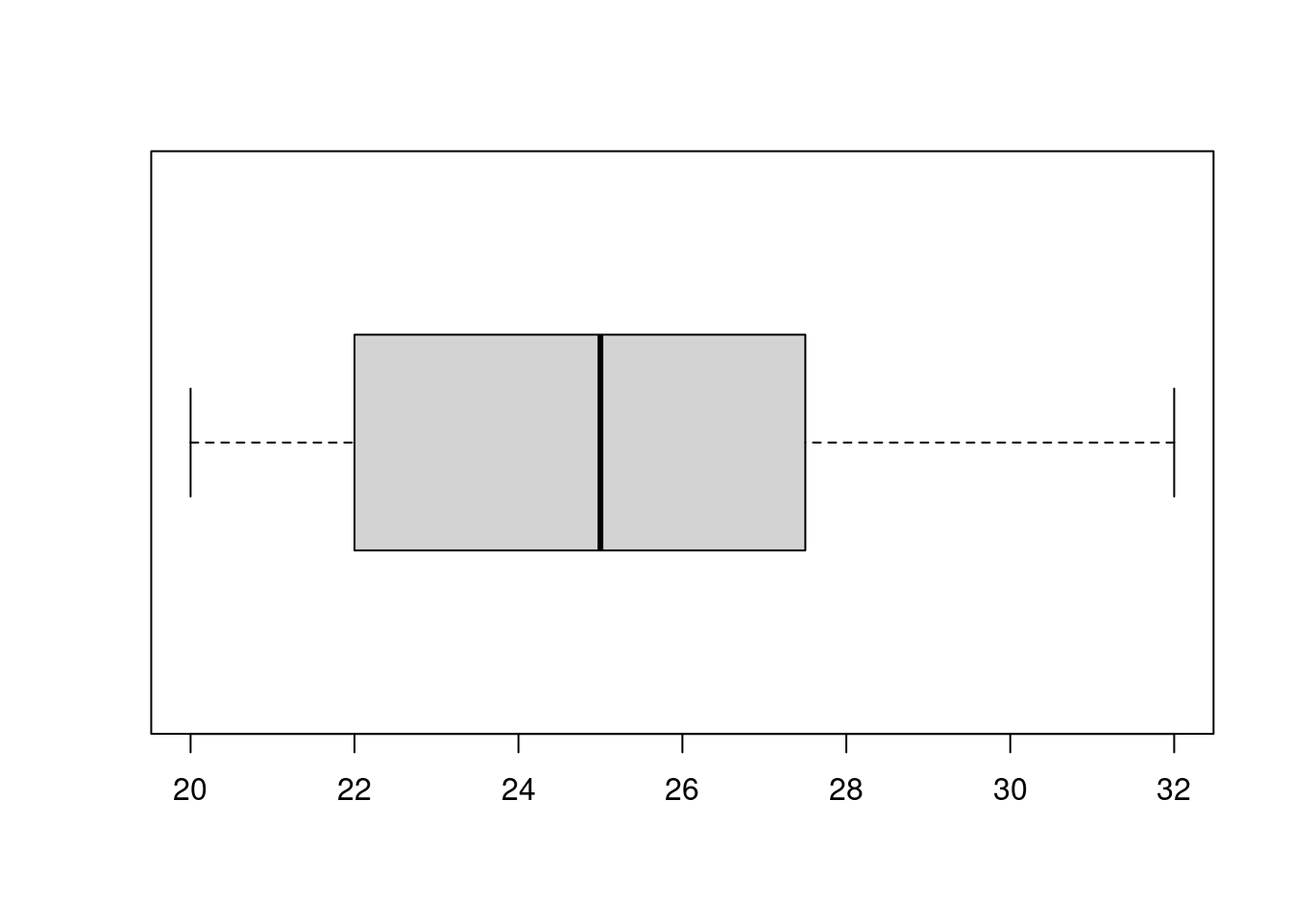
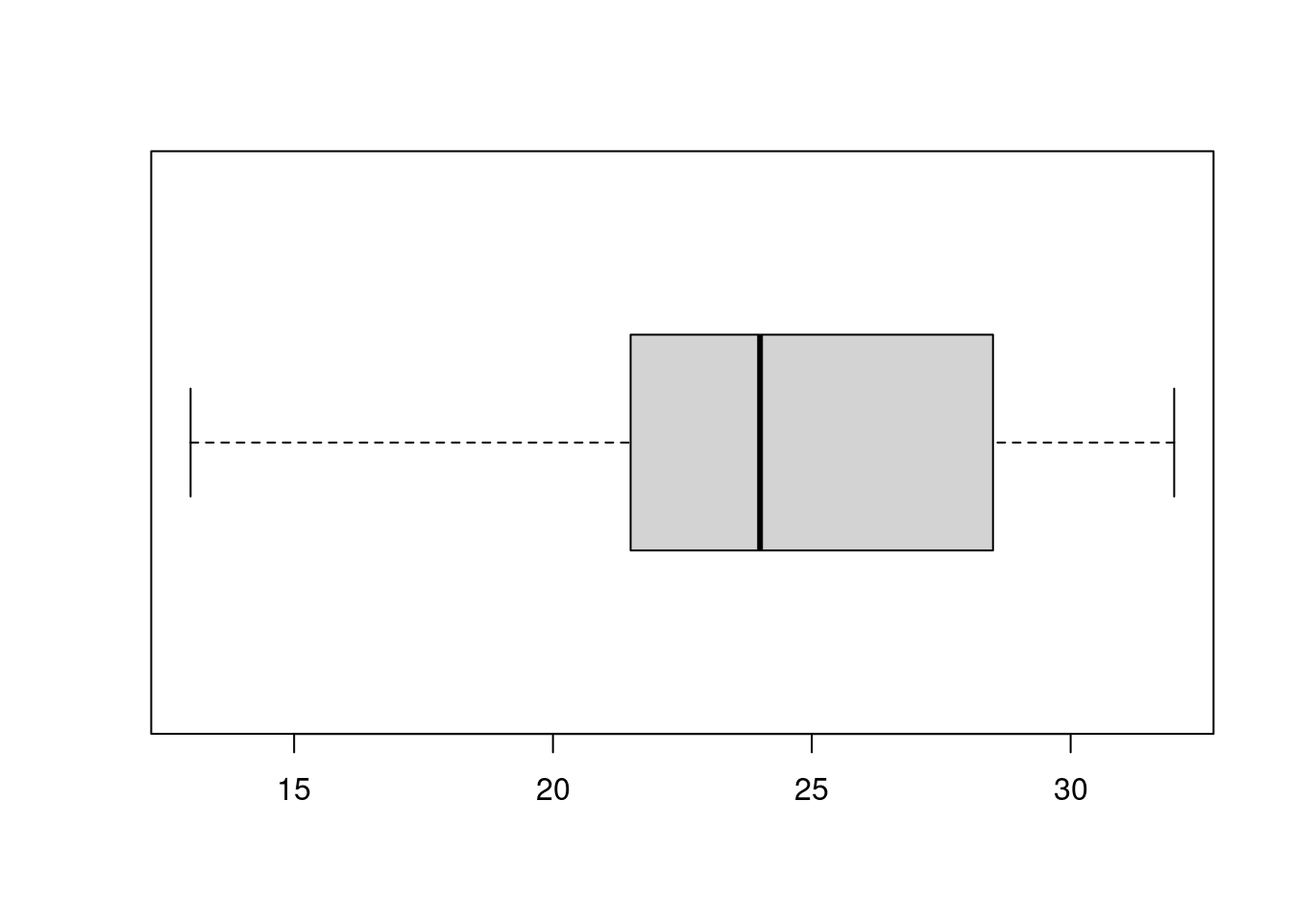
Adding Poisson Distribution

diff --git a/_book/discrete-probability-the-binomial-distribution.html b/_book/discrete-probability-the-binomial-distribution.html
@@ -247,7 +247,12 @@ code span.wa { color: #60a0b0; font-weight: bold; font-style: italic; } /* Warni
 <ul>
 <li class="chapter" data-level="4.1.1" data-path="geometric-and-poisson-distributions.html"><a href="geometric-and-poisson-distributions.html#expected-value-1"><i class="fa fa-check"></i><b>4.1.1</b> Expected Value</a></li>
 <li class="chapter" data-level="4.1.2" data-path="geometric-and-poisson-distributions.html"><a href="geometric-and-poisson-distributions.html#variance"><i class="fa fa-check"></i><b>4.1.2</b> Variance</a></li>
-<li class="chapter" data-level="4.1.3" data-path="geometric-and-poisson-distributions.html"><a href="geometric-and-poisson-distributions.html#poisson-distributions"><i class="fa fa-check"></i><b>4.1.3</b> Poisson Distributions</a></li>
+</ul></li>
+<li class="chapter" data-level="4.2" data-path="geometric-and-poisson-distributions.html"><a href="geometric-and-poisson-distributions.html#poisson-distributions"><i class="fa fa-check"></i><b>4.2</b> Poisson Distributions</a>
+<ul>
+<li class="chapter" data-level="4.2.1" data-path="geometric-and-poisson-distributions.html"><a href="geometric-and-poisson-distributions.html#what-have-we-learned"><i class="fa fa-check"></i><b>4.2.1</b> What have we learned?</a></li>
+<li class="chapter" data-level="4.2.2" data-path="geometric-and-poisson-distributions.html"><a href="geometric-and-poisson-distributions.html#expected-value-2"><i class="fa fa-check"></i><b>4.2.2</b> Expected Value</a></li>
+<li class="chapter" data-level="4.2.3" data-path="geometric-and-poisson-distributions.html"><a href="geometric-and-poisson-distributions.html#variance-of-the-poisson-random-variable"><i class="fa fa-check"></i><b>4.2.3</b> Variance of the Poisson Random Variable</a></li>
 </ul></li>
 </ul></li>
 <li class="appendix"><span><b>Appendix</b></span></li>
@@ -361,18 +366,18 @@ code span.wa { color: #60a0b0; font-weight: bold; font-style: italic; } /* Warni
 <div class="sourceCode" id="cb1"><pre class="sourceCode r"><code class="sourceCode r"><span id="cb1-1"><a href="discrete-probability-the-binomial-distribution.html#cb1-1" aria-hidden="true" tabindex="-1"></a>x <span class="ot">&lt;-</span> <span class="fu">c</span>(<span class="st">&quot;H&quot;</span>, <span class="st">&quot;T&quot;</span>)</span>
 <span id="cb1-2"><a href="discrete-probability-the-binomial-distribution.html#cb1-2" aria-hidden="true" tabindex="-1"></a>result <span class="ot">&lt;-</span> <span class="fu">sample</span>(x, <span class="dv">200</span>, <span class="at">replace=</span><span class="cn">TRUE</span>)</span>
 <span id="cb1-3"><a href="discrete-probability-the-binomial-distribution.html#cb1-3" aria-hidden="true" tabindex="-1"></a>result</span></code></pre></div>
-<pre><code>##   [1] &quot;H&quot; &quot;T&quot; &quot;T&quot; &quot;H&quot; &quot;H&quot; &quot;T&quot; &quot;H&quot; &quot;H&quot; &quot;H&quot; &quot;H&quot; &quot;H&quot; &quot;H&quot; &quot;T&quot; &quot;H&quot; &quot;H&quot; &quot;T&quot; &quot;H&quot; &quot;H&quot;
-##  [19] &quot;H&quot; &quot;H&quot; &quot;T&quot; &quot;T&quot; &quot;T&quot; &quot;H&quot; &quot;H&quot; &quot;T&quot; &quot;H&quot; &quot;T&quot; &quot;H&quot; &quot;T&quot; &quot;T&quot; &quot;H&quot; &quot;T&quot; &quot;T&quot; &quot;T&quot; &quot;T&quot;
-##  [37] &quot;T&quot; &quot;H&quot; &quot;H&quot; &quot;T&quot; &quot;T&quot; &quot;T&quot; &quot;T&quot; &quot;H&quot; &quot;H&quot; &quot;H&quot; &quot;H&quot; &quot;T&quot; &quot;T&quot; &quot;H&quot; &quot;H&quot; &quot;H&quot; &quot;H&quot; &quot;H&quot;
-##  [55] &quot;T&quot; &quot;H&quot; &quot;T&quot; &quot;T&quot; &quot;H&quot; &quot;H&quot; &quot;H&quot; &quot;H&quot; &quot;H&quot; &quot;T&quot; &quot;H&quot; &quot;H&quot; &quot;T&quot; &quot;T&quot; &quot;T&quot; &quot;H&quot; &quot;H&quot; &quot;T&quot;
-##  [73] &quot;T&quot; &quot;H&quot; &quot;H&quot; &quot;H&quot; &quot;T&quot; &quot;T&quot; &quot;T&quot; &quot;T&quot; &quot;T&quot; &quot;T&quot; &quot;H&quot; &quot;T&quot; &quot;H&quot; &quot;T&quot; &quot;H&quot; &quot;H&quot; &quot;T&quot; &quot;T&quot;
-##  [91] &quot;H&quot; &quot;T&quot; &quot;H&quot; &quot;T&quot; &quot;T&quot; &quot;T&quot; &quot;T&quot; &quot;H&quot; &quot;H&quot; &quot;T&quot; &quot;H&quot; &quot;H&quot; &quot;H&quot; &quot;H&quot; &quot;T&quot; &quot;T&quot; &quot;T&quot; &quot;T&quot;
-## [109] &quot;T&quot; &quot;H&quot; &quot;H&quot; &quot;H&quot; &quot;T&quot; &quot;T&quot; &quot;H&quot; &quot;T&quot; &quot;T&quot; &quot;H&quot; &quot;T&quot; &quot;H&quot; &quot;H&quot; &quot;T&quot; &quot;T&quot; &quot;T&quot; &quot;H&quot; &quot;H&quot;
-## [127] &quot;T&quot; &quot;H&quot; &quot;H&quot; &quot;T&quot; &quot;H&quot; &quot;T&quot; &quot;T&quot; &quot;H&quot; &quot;T&quot; &quot;H&quot; &quot;T&quot; &quot;H&quot; &quot;T&quot; &quot;T&quot; &quot;H&quot; &quot;T&quot; &quot;T&quot; &quot;H&quot;
-## [145] &quot;T&quot; &quot;T&quot; &quot;H&quot; &quot;H&quot; &quot;T&quot; &quot;H&quot; &quot;T&quot; &quot;T&quot; &quot;T&quot; &quot;T&quot; &quot;H&quot; &quot;H&quot; &quot;H&quot; &quot;H&quot; &quot;H&quot; &quot;H&quot; &quot;H&quot; &quot;T&quot;
-## [163] &quot;H&quot; &quot;H&quot; &quot;T&quot; &quot;T&quot; &quot;H&quot; &quot;T&quot; &quot;T&quot; &quot;T&quot; &quot;T&quot; &quot;H&quot; &quot;H&quot; &quot;T&quot; &quot;T&quot; &quot;T&quot; &quot;H&quot; &quot;T&quot; &quot;H&quot; &quot;T&quot;
-## [181] &quot;H&quot; &quot;T&quot; &quot;T&quot; &quot;T&quot; &quot;H&quot; &quot;T&quot; &quot;T&quot; &quot;H&quot; &quot;T&quot; &quot;T&quot; &quot;H&quot; &quot;H&quot; &quot;T&quot; &quot;H&quot; &quot;T&quot; &quot;T&quot; &quot;H&quot; &quot;H&quot;
-## [199] &quot;H&quot; &quot;H&quot;</code></pre>
+<pre><code>##   [1] &quot;T&quot; &quot;T&quot; &quot;H&quot; &quot;T&quot; &quot;H&quot; &quot;H&quot; &quot;T&quot; &quot;T&quot; &quot;T&quot; &quot;T&quot; &quot;T&quot; &quot;T&quot; &quot;T&quot; &quot;T&quot; &quot;T&quot; &quot;T&quot; &quot;T&quot; &quot;T&quot;
+##  [19] &quot;H&quot; &quot;H&quot; &quot;T&quot; &quot;H&quot; &quot;T&quot; &quot;T&quot; &quot;T&quot; &quot;T&quot; &quot;T&quot; &quot;T&quot; &quot;T&quot; &quot;H&quot; &quot;T&quot; &quot;H&quot; &quot;H&quot; &quot;T&quot; &quot;H&quot; &quot;T&quot;
+##  [37] &quot;H&quot; &quot;H&quot; &quot;T&quot; &quot;T&quot; &quot;H&quot; &quot;T&quot; &quot;H&quot; &quot;H&quot; &quot;H&quot; &quot;H&quot; &quot;T&quot; &quot;T&quot; &quot;T&quot; &quot;H&quot; &quot;H&quot; &quot;T&quot; &quot;H&quot; &quot;T&quot;
+##  [55] &quot;T&quot; &quot;H&quot; &quot;H&quot; &quot;H&quot; &quot;T&quot; &quot;T&quot; &quot;T&quot; &quot;T&quot; &quot;T&quot; &quot;H&quot; &quot;H&quot; &quot;T&quot; &quot;T&quot; &quot;T&quot; &quot;T&quot; &quot;H&quot; &quot;T&quot; &quot;T&quot;
+##  [73] &quot;H&quot; &quot;H&quot; &quot;H&quot; &quot;H&quot; &quot;H&quot; &quot;H&quot; &quot;H&quot; &quot;H&quot; &quot;H&quot; &quot;T&quot; &quot;T&quot; &quot;T&quot; &quot;H&quot; &quot;T&quot; &quot;T&quot; &quot;T&quot; &quot;H&quot; &quot;T&quot;
+##  [91] &quot;H&quot; &quot;H&quot; &quot;H&quot; &quot;T&quot; &quot;H&quot; &quot;T&quot; &quot;T&quot; &quot;T&quot; &quot;H&quot; &quot;H&quot; &quot;T&quot; &quot;T&quot; &quot;H&quot; &quot;T&quot; &quot;T&quot; &quot;H&quot; &quot;H&quot; &quot;T&quot;
+## [109] &quot;T&quot; &quot;T&quot; &quot;H&quot; &quot;H&quot; &quot;T&quot; &quot;T&quot; &quot;H&quot; &quot;T&quot; &quot;T&quot; &quot;T&quot; &quot;T&quot; &quot;H&quot; &quot;T&quot; &quot;T&quot; &quot;H&quot; &quot;H&quot; &quot;T&quot; &quot;T&quot;
+## [127] &quot;T&quot; &quot;H&quot; &quot;T&quot; &quot;T&quot; &quot;T&quot; &quot;H&quot; &quot;T&quot; &quot;T&quot; &quot;H&quot; &quot;H&quot; &quot;H&quot; &quot;T&quot; &quot;H&quot; &quot;H&quot; &quot;H&quot; &quot;H&quot; &quot;T&quot; &quot;T&quot;
+## [145] &quot;T&quot; &quot;H&quot; &quot;T&quot; &quot;T&quot; &quot;T&quot; &quot;H&quot; &quot;H&quot; &quot;T&quot; &quot;T&quot; &quot;T&quot; &quot;H&quot; &quot;T&quot; &quot;T&quot; &quot;H&quot; &quot;H&quot; &quot;H&quot; &quot;H&quot; &quot;H&quot;
+## [163] &quot;H&quot; &quot;H&quot; &quot;T&quot; &quot;H&quot; &quot;H&quot; &quot;H&quot; &quot;T&quot; &quot;H&quot; &quot;H&quot; &quot;H&quot; &quot;H&quot; &quot;H&quot; &quot;H&quot; &quot;H&quot; &quot;H&quot; &quot;H&quot; &quot;H&quot; &quot;H&quot;
+## [181] &quot;H&quot; &quot;T&quot; &quot;T&quot; &quot;H&quot; &quot;H&quot; &quot;T&quot; &quot;T&quot; &quot;H&quot; &quot;T&quot; &quot;T&quot; &quot;H&quot; &quot;H&quot; &quot;T&quot; &quot;H&quot; &quot;H&quot; &quot;H&quot; &quot;T&quot; &quot;H&quot;
+## [199] &quot;T&quot; &quot;T&quot;</code></pre>
 <p>You can also pass the sample command a list of probabilities for each element of x; note that order matters so check it. For a fair coin the default of each outcome being equally likely works. However note that unfair coins are not unheard of - you can purchase them at magic and toy shops.</p>
 <p>A typical human trying to fake coin flips will distribute them too uniformly and will not have as many long sequences of “H” as we expect to see from an actual experiment.</p>
 </div>
@@ -382,16 +387,16 @@ code span.wa { color: #60a0b0; font-weight: bold; font-style: italic; } /* Warni
 <div class="sourceCode" id="cb3"><pre class="sourceCode r"><code class="sourceCode r"><span id="cb3-1"><a href="discrete-probability-the-binomial-distribution.html#cb3-1" aria-hidden="true" tabindex="-1"></a>x <span class="ot">&lt;-</span> <span class="fu">c</span>(<span class="dv">1</span>, <span class="dv">0</span>)</span>
 <span id="cb3-2"><a href="discrete-probability-the-binomial-distribution.html#cb3-2" aria-hidden="true" tabindex="-1"></a>result <span class="ot">&lt;-</span> <span class="fu">sample</span>(x, <span class="dv">130</span>, <span class="at">replace =</span> <span class="cn">TRUE</span>, <span class="at">prob=</span><span class="fu">c</span>(<span class="fl">0.38</span>, <span class="fl">0.62</span>) )</span>
 <span id="cb3-3"><a href="discrete-probability-the-binomial-distribution.html#cb3-3" aria-hidden="true" tabindex="-1"></a>result</span></code></pre></div>
-<pre><code>##   [1] 0 0 0 0 1 1 0 0 0 1 1 0 1 1 0 1 1 1 1 0 1 0 1 0 1 0 0 0 1 0 1 0 1 0 0 0 0
-##  [38] 0 0 1 1 1 0 0 1 1 0 0 0 0 0 1 0 0 1 1 1 1 0 0 0 0 0 0 0 0 0 1 0 0 1 0 0 0
-##  [75] 0 0 0 0 0 1 1 0 0 1 1 0 1 1 1 1 1 1 1 1 0 0 0 0 1 0 1 0 0 0 0 1 1 1 0 1 0
-## [112] 0 1 1 0 0 1 0 0 1 1 0 0 0 1 0 0 1 1 1</code></pre>
+<pre><code>##   [1] 0 0 1 0 1 0 0 1 1 1 0 1 0 1 1 0 0 0 0 1 0 1 0 0 0 1 0 0 0 0 0 1 1 1 1 1 0
+##  [38] 0 0 0 0 0 0 0 1 1 1 1 1 0 0 0 0 0 0 1 0 0 0 0 0 1 1 0 0 0 1 1 0 0 1 0 0 1
+##  [75] 1 0 0 0 0 1 0 0 0 1 0 1 0 1 1 0 1 0 0 0 1 1 1 0 0 0 0 0 0 1 1 1 0 0 0 1 0
+## [112] 0 0 1 1 0 0 1 1 0 0 1 0 1 0 0 1 0 0 1</code></pre>
 <p>You may notice that rather than using strings for the entries in <em>x</em> I used 1 and 0. The reason is that what we care about is the number of students that are food insecure, this is our random variable of interest and now we can compute its value by just summing up the numbers in <em>result</em> the value of which will be the number of 1s.</p>
 <div class="sourceCode" id="cb5"><pre class="sourceCode r"><code class="sourceCode r"><span id="cb5-1"><a href="discrete-probability-the-binomial-distribution.html#cb5-1" aria-hidden="true" tabindex="-1"></a><span class="fu">sum</span>(result)</span></code></pre></div>
-<pre><code>## [1] 55</code></pre>
+<pre><code>## [1] 50</code></pre>
 <p>Because the <em>sample</em> command uses (pseudo)-random numbers, if we run this again we will get a different result (also note each time I compile this textbook the values change). Do it a few times yourself and see what we get.</p>
 <div class="sourceCode" id="cb7"><pre class="sourceCode r"><code class="sourceCode r"><span id="cb7-1"><a href="discrete-probability-the-binomial-distribution.html#cb7-1" aria-hidden="true" tabindex="-1"></a><span class="fu">sum</span>(<span class="fu">sample</span>(x, <span class="dv">130</span>, <span class="at">replace=</span><span class="cn">TRUE</span>, <span class="at">prob=</span><span class="fu">c</span>(<span class="fl">0.38</span>, <span class="fl">0.62</span>)))</span></code></pre></div>
-<pre><code>## [1] 36</code></pre>
+<pre><code>## [1] 53</code></pre>
 <p>This is a little bit tedious to run a bunch of times and we also should be keeping track of the results. For example, what is the smallest value you have seen so far? Luckily, one of the things computers are absolutely brilliant at is doing the same thing over and over and keeping track of the results. Let me introduce you to one of the two real programming structures we will use in this class: a <em>for loop</em>. A for loop tells the computer to complete the same set of commands multiple times.</p>
 <div class="sourceCode" id="cb9"><pre class="sourceCode r"><code class="sourceCode r"><span id="cb9-1"><a href="discrete-probability-the-binomial-distribution.html#cb9-1" aria-hidden="true" tabindex="-1"></a><span class="co"># We are going to keep track of the results in a variable called trials, so we first initalize this variable as an empty column</span></span>
 <span id="cb9-2"><a href="discrete-probability-the-binomial-distribution.html#cb9-2" aria-hidden="true" tabindex="-1"></a>trials <span class="ot">&lt;-</span> <span class="fu">c</span>()</span>
@@ -405,17 +410,17 @@ code span.wa { color: #60a0b0; font-weight: bold; font-style: italic; } /* Warni
 <span id="cb9-10"><a href="discrete-probability-the-binomial-distribution.html#cb9-10" aria-hidden="true" tabindex="-1"></a>}</span>
 <span id="cb9-11"><a href="discrete-probability-the-binomial-distribution.html#cb9-11" aria-hidden="true" tabindex="-1"></a></span>
 <span id="cb9-12"><a href="discrete-probability-the-binomial-distribution.html#cb9-12" aria-hidden="true" tabindex="-1"></a>trials</span></code></pre></div>
-<pre><code>##   [1] 42 51 51 47 48 43 44 46 51 54 49 50 43 47 50 54 48 36 52 55 54 52 60 53 46
-##  [26] 44 36 46 56 56 46 56 48 44 47 53 43 46 47 43 47 49 49 53 53 53 51 57 44 46
-##  [51] 55 49 42 43 59 46 54 53 48 40 42 43 46 46 50 45 49 48 41 52 49 55 58 52 46
-##  [76] 54 44 49 48 58 58 54 47 53 46 37 41 36 50 59 48 46 42 44 42 51 46 50 47 52</code></pre>
+<pre><code>##   [1] 48 45 62 56 53 50 50 53 47 61 54 56 54 49 42 51 49 48 56 48 51 52 51 43 49
+##  [26] 54 53 50 41 52 58 51 61 55 55 46 50 52 47 61 45 46 43 47 47 55 53 54 38 50
+##  [51] 51 43 58 58 54 59 49 54 44 57 52 59 43 50 51 53 43 43 52 51 49 46 52 57 55
+##  [76] 58 44 55 43 59 48 47 49 43 45 56 58 51 62 55 45 53 51 52 46 44 42 45 45 47</code></pre>
 <p>Let’s use a historgram to look at the result:</p>
 <div class="sourceCode" id="cb11"><pre class="sourceCode r"><code class="sourceCode r"><span id="cb11-1"><a href="discrete-probability-the-binomial-distribution.html#cb11-1" aria-hidden="true" tabindex="-1"></a><span class="co"># The paramter breaks is determining how many bins to use</span></span>
 <span id="cb11-2"><a href="discrete-probability-the-binomial-distribution.html#cb11-2" aria-hidden="true" tabindex="-1"></a><span class="fu">hist</span>(trials, <span class="at">breaks=</span><span class="dv">10</span>)</span></code></pre></div>
 <p><img src="_main_files/figure-html/unnamed-chunk-6-1.png" width="672" /></p>
 <div class="sourceCode" id="cb12"><pre class="sourceCode r"><code class="sourceCode r"><span id="cb12-1"><a href="discrete-probability-the-binomial-distribution.html#cb12-1" aria-hidden="true" tabindex="-1"></a><span class="fu">summary</span>(trials)</span></code></pre></div>
 <pre><code>##    Min. 1st Qu.  Median    Mean 3rd Qu.    Max. 
-##   36.00   45.75   48.00   48.52   53.00   60.00</code></pre>
+##   38.00   46.75   51.00   50.68   54.25   62.00</code></pre>
 <p>So interestingly the minimum value is not very small. What does this tell us about the number of mathematics majors we might see that are food insecure? What would our interpretation be if we found only 10 of the mathematics majors were food insecure?</p>
 <p>Finally you can probably tell me you are not surprised that the mean is close to</p>
 <div class="sourceCode" id="cb14"><pre class="sourceCode r"><code class="sourceCode r"><span id="cb14-1"><a href="discrete-probability-the-binomial-distribution.html#cb14-1" aria-hidden="true" tabindex="-1"></a><span class="fl">0.38</span> <span class="sc">*</span> <span class="dv">130</span></span></code></pre></div>

diff --git a/_book/geometric-and-poisson-distributions.html b/_book/geometric-and-poisson-distributions.html
@@ -247,7 +247,12 @@ code span.wa { color: #60a0b0; font-weight: bold; font-style: italic; } /* Warni
 <ul>
 <li class="chapter" data-level="4.1.1" data-path="geometric-and-poisson-distributions.html"><a href="geometric-and-poisson-distributions.html#expected-value-1"><i class="fa fa-check"></i><b>4.1.1</b> Expected Value</a></li>
 <li class="chapter" data-level="4.1.2" data-path="geometric-and-poisson-distributions.html"><a href="geometric-and-poisson-distributions.html#variance"><i class="fa fa-check"></i><b>4.1.2</b> Variance</a></li>
-<li class="chapter" data-level="4.1.3" data-path="geometric-and-poisson-distributions.html"><a href="geometric-and-poisson-distributions.html#poisson-distributions"><i class="fa fa-check"></i><b>4.1.3</b> Poisson Distributions</a></li>
+</ul></li>
+<li class="chapter" data-level="4.2" data-path="geometric-and-poisson-distributions.html"><a href="geometric-and-poisson-distributions.html#poisson-distributions"><i class="fa fa-check"></i><b>4.2</b> Poisson Distributions</a>
+<ul>
+<li class="chapter" data-level="4.2.1" data-path="geometric-and-poisson-distributions.html"><a href="geometric-and-poisson-distributions.html#what-have-we-learned"><i class="fa fa-check"></i><b>4.2.1</b> What have we learned?</a></li>
+<li class="chapter" data-level="4.2.2" data-path="geometric-and-poisson-distributions.html"><a href="geometric-and-poisson-distributions.html#expected-value-2"><i class="fa fa-check"></i><b>4.2.2</b> Expected Value</a></li>
+<li class="chapter" data-level="4.2.3" data-path="geometric-and-poisson-distributions.html"><a href="geometric-and-poisson-distributions.html#variance-of-the-poisson-random-variable"><i class="fa fa-check"></i><b>4.2.3</b> Variance of the Poisson Random Variable</a></li>
 </ul></li>
 </ul></li>
 <li class="appendix"><span><b>Appendix</b></span></li>
@@ -348,8 +353,92 @@ code span.wa { color: #60a0b0; font-weight: bold; font-style: italic; } /* Warni
 <p><span class="math display">\[ V(Y) = \frac{2}{p^2} - \frac{1}{p} - \frac{1}{p^2} = \frac{1-p}{p^2} \]</span></p>
 </div>
 </div>
-<div id="poisson-distributions" class="section level3" number="4.1.3">
-<h3><span class="header-section-number">4.1.3</span> Poisson Distributions</h3>
+</div>
+<div id="poisson-distributions" class="section level2" number="4.2">
+<h2><span class="header-section-number">4.2</span> Poisson Distributions</h2>
+<p>Consider a particular intersection. We are interested in understanding the number of accidents that will happen at this intersection in a week. One way to think about this is to consider that if we break our units of time down to a small enough amount of time that only one accident can happen at a time - say we consider individual minutes. Now that only one accident is possible we could consider <span class="math inline">\(p\)</span> the probability that an accident occurs in any given minute at this intersection:</p>
+<p><span class="math display">\[ P( \mbox{an accident occurs in a minute}) = p\]</span></p>
+<p><span class="math display">\[ P( \mbox{no accident occurs in a minute}) = 1- p \]</span></p>
+<p><span class="math display">\[ P( \mbox{more than one accident occurs in a minute}) = 0 \]</span></p>
+<p>We then take smaller and smaller units of time.</p>
+<p>Our implicit assumption here is each subunit of time is an identically distributed independent Bernouli trial. This is probably a shaky assumption, but lets proceed and see what happens.</p>
+<p>So for a subunit with <span class="math inline">\(n\)</span> occurences in a week we have:</p>
+<p><span class="math display">\[ P(Y = r) \sim \binom{n}{r} p^r (1-p)^{n - r} \]</span></p>
+<p>We now want to take a limit as <span class="math inline">\(n\to \infty\)</span>, i.e. as the size of the subunits of time become smaller and smaller. Of course in doing this the probability <span class="math inline">\(p\)</span> will change. Let’s assume that it just scales linearly: i.e. the probability of an accident in a given minute is 60 times the probability of an accident in a given second. This is a reasonable assumption if:</p>
+<ul>
+<li>Everything for a given subunit size is IID; and</li>
+<li>the subunits are small enough that only one accident can happen at a time.</li>
+</ul>
+<p>Let <span class="math inline">\(p = n \lambda\)</span> for some parameter <span class="math inline">\(\lambda\)</span> and then we take the limit of <span class="math inline">\(P(Y=r)\)</span> above:</p>
+<p><span class="math display">\[ P(Y=r) = \lim_{n\to \infty} \binom{n}{r} \left( \frac{\lambda}{n} \right)^r \left( 1 - \frac{\lambda}{n} \right)^{n-r} \]</span></p>
+<p>We expand out the binomial coefficient:</p>
+<p><span class="math display">\[ = \lim_{n\to \infty} \frac{n (n-1) \cdots (n-r+1)}{r!} \left( \frac{\lambda}{n} \right)^r \left( 1 - \frac{\lambda}{n} \right)^{n-r} \]</span></p>
+<p>factor the <span class="math inline">\(\lambda/n\)</span> and <span class="math inline">\(1- \lambda/n\)</span> terms apart and recombine:</p>
+<p><span class="math display">\[ = \lim_{n\to \infty} \frac{\lambda^r}{r!} \left(1 - \frac{\lambda}{n} \right)^n \cdot \frac{ n (n-1) \cdots (n-r+1)}{n^r} \left(1 - \frac{\lambda}{n}\right)^{-r} \]</span></p>
+<p>expand the numerator of the fraction and factor out the parts not depending on <span class="math inline">\(n\)</span>:</p>
+<p><span class="math display">\[ = \frac{\lambda^r}{r!} \lim_{n\to \infty} \left(1 - \frac{\lambda}{n}\right)^n \left(1 - \frac{\lambda}{n}\right)^{-r} \left(1 - \frac{1}{n}\right) \left( 1 - \frac{2}{n} \right) \cdots \left( 1- \frac{r-1}{n} \right) \]</span></p>
+<p>Now inside the limit, all but the first factor only depends on <span class="math inline">\(n\)</span> inside of the parenthesis; each of this is going to 1. We also recall that</p>
+<p><span class="math display">\[ \lim_{n\to \infty} \left(1 - \frac{\lambda}{n}\right)^n = e^{-\lambda} \]</span></p>
+<p>and putting it all back together we have:</p>
+<p><span class="math display">\[ P(Y=r) = \frac{\lambda^r}{r!} e^{-\lambda} \]</span></p>
+<div id="what-have-we-learned" class="section level3" number="4.2.1">
+<h3><span class="header-section-number">4.2.1</span> What have we learned?</h3>
+<p>So we now have a definition: A random variable <span class="math inline">\(Y\)</span> is called a Poisson Process if it is coming from a trial that has the following property <strong><span class="math inline">\(Y\)</span> is the number of events happening in a unit of time, distance, area, volume or any thing which can be subdivide into smaller and smaller pieces which has the propeerty that for small enough subdivisions the events can only happen once and the likliehood that they happen becomes an identical independent Bernoulie trial.</strong> Interestingly, small deviations from this assumption will still yield a good approximation.</p>
+<p>The probability distribution of a Poisson Process satisfies the probability distribution for <span class="math inline">\(r \geq 0\)</span>:</p>
+<p><span class="math display">\[P(Y=r) = \frac{\lambda^r}{r!} e^{-\lambda} \]</span></p>
+<p>with some parameter <span class="math inline">\(\lambda &gt; 0\)</span>.</p>
+<div id="plotting-the-distribution" class="section level4" number="4.2.1.1">
+<h4><span class="header-section-number">4.2.1.1</span> Plotting the Distribution</h4>
+<p>This distribution is coded in R as <em>dpois</em>, lets plot the distribution for the first few <span class="math inline">\(r\)</span> with a given <span class="math inline">\(\lambda\)</span>:</p>
+<div class="sourceCode" id="cb17"><pre class="sourceCode r"><code class="sourceCode r"><span id="cb17-1"><a href="geometric-and-poisson-distributions.html#cb17-1" aria-hidden="true" tabindex="-1"></a>lambda <span class="ot">&lt;-</span> <span class="fl">1.1</span></span>
+<span id="cb17-2"><a href="geometric-and-poisson-distributions.html#cb17-2" aria-hidden="true" tabindex="-1"></a>r <span class="ot">&lt;-</span> <span class="fu">c</span>(<span class="dv">0</span><span class="sc">:</span><span class="dv">100</span>)</span>
+<span id="cb17-3"><a href="geometric-and-poisson-distributions.html#cb17-3" aria-hidden="true" tabindex="-1"></a>v <span class="ot">&lt;-</span> <span class="fu">dpois</span>(r, lambda)</span>
+<span id="cb17-4"><a href="geometric-and-poisson-distributions.html#cb17-4" aria-hidden="true" tabindex="-1"></a><span class="fu">plot</span>(r, v)</span></code></pre></div>
+<p><img src="_main_files/figure-html/unnamed-chunk-9-1.png" width="672" /></p>
+<p>What is the effect of increasing <span class="math inline">\(\lambda\)</span>? Decreasing <span class="math inline">\(\lambda\)</span>?</p>
+</div>
+<div id="cummulative-distribution" class="section level4" number="4.2.1.2">
+<h4><span class="header-section-number">4.2.1.2</span> Cummulative Distribution</h4>
+<p>The cumulative distribution, the probability that <span class="math inline">\(Y \leq r\)</span>, can be plotted, it is coded in R as <em>ppois</em>:</p>
+<div class="sourceCode" id="cb18"><pre class="sourceCode r"><code class="sourceCode r"><span id="cb18-1"><a href="geometric-and-poisson-distributions.html#cb18-1" aria-hidden="true" tabindex="-1"></a>lambda <span class="ot">&lt;-</span> <span class="fl">1.1</span></span>
+<span id="cb18-2"><a href="geometric-and-poisson-distributions.html#cb18-2" aria-hidden="true" tabindex="-1"></a>n <span class="ot">&lt;-</span> <span class="dv">100</span> <span class="co"># The upper bound on n for our plot</span></span>
+<span id="cb18-3"><a href="geometric-and-poisson-distributions.html#cb18-3" aria-hidden="true" tabindex="-1"></a>r <span class="ot">&lt;-</span> <span class="fu">c</span>(<span class="dv">0</span><span class="sc">:</span>(<span class="dv">10</span><span class="sc">*</span>n))<span class="sc">/</span><span class="dv">10</span></span>
+<span id="cb18-4"><a href="geometric-and-poisson-distributions.html#cb18-4" aria-hidden="true" tabindex="-1"></a><span class="fu">plot</span>(r, <span class="fu">ppois</span>(r, lambda), <span class="at">type=</span><span class="st">&quot;l&quot;</span>)</span></code></pre></div>
+<p><img src="_main_files/figure-html/unnamed-chunk-10-1.png" width="672" /></p>
+<p>Again what is the effect of changing <span class="math inline">\(\lambda\)</span>? Make a prediction before you draw the graph. Again you may have to increase the fineness of our mesh in order for the graph to render correctly.</p>
+</div>
+</div>
+<div id="expected-value-2" class="section level3" number="4.2.2">
+<h3><span class="header-section-number">4.2.2</span> Expected Value</h3>
+<p>So let’s suppose we have found that <span class="math inline">\(\lambda = 1.1\)</span> for our intersection (we will return to finding <span class="math inline">\(\lambda\)</span> from data later). How many accidents do we expect to see each week? I.e. over the long term if we take the mean of the number of accidents what will we find?</p>
+<p>Using R we can approximate it:</p>
+<div class="sourceCode" id="cb19"><pre class="sourceCode r"><code class="sourceCode r"><span id="cb19-1"><a href="geometric-and-poisson-distributions.html#cb19-1" aria-hidden="true" tabindex="-1"></a>r <span class="ot">&lt;-</span> <span class="fu">c</span>(<span class="dv">0</span><span class="sc">:</span><span class="dv">100</span>)</span>
+<span id="cb19-2"><a href="geometric-and-poisson-distributions.html#cb19-2" aria-hidden="true" tabindex="-1"></a>lambda <span class="ot">&lt;-</span> <span class="fl">1.1</span></span>
+<span id="cb19-3"><a href="geometric-and-poisson-distributions.html#cb19-3" aria-hidden="true" tabindex="-1"></a><span class="fu">sum</span>( r<span class="sc">*</span><span class="fu">dpois</span>(r, lambda) )</span></code></pre></div>
+<pre><code>## [1] 1.1</code></pre>
+<p>Which seems well…. <strong>clearly we should be able to show that this will always happen!</strong></p>
+<p><span class="math display">\[ E(Y) = \sum_{r =0}^\infty r P(Y=r) = \sum_{r=0}^\infty r \frac{\lambda^r}{r!} e^{-\lambda} \]</span></p>
+<p>Again I will note here that the distributions for which we have names are the ones for which the mathematical structure tends to give us formulas with which we can actually do something. We will talk as the course goes on about why this works, and what we can do more generally.</p>
+<p>Continuing:</p>
+<p><span class="math display">\[ E(Y) = e^{-\lambda} \sum_{r=1}^\infty \frac{\lambda^r}{(r-1)!} \]</span></p>
+<p><span class="math display">\[ = \lambda e^{-\lambda} \sum_{s=0}^\infty \frac{\lambda^s}{s!} = \lambda e^{-\lambda} e^{\lambda} = \lambda\]</span></p>
+<p>So the <span class="math inline">\(\lambda\)</span> parameter for our Poisson Distribution is exactly the expected value of the random variable.</p>
+</div>
+<div id="variance-of-the-poisson-random-variable" class="section level3" number="4.2.3">
+<h3><span class="header-section-number">4.2.3</span> Variance of the Poisson Random Variable</h3>
+<p>We can also compute the variance, using again our shortcut: <span class="math inline">\(V(Y) = E(Y^2) - \mu^2\)</span> where <span class="math inline">\(\mu = E(Y)\)</span>.</p>
+<div class="sourceCode" id="cb21"><pre class="sourceCode r"><code class="sourceCode r"><span id="cb21-1"><a href="geometric-and-poisson-distributions.html#cb21-1" aria-hidden="true" tabindex="-1"></a>r <span class="ot">&lt;-</span> <span class="fu">c</span>(<span class="dv">0</span><span class="sc">:</span><span class="dv">100</span>)</span>
+<span id="cb21-2"><a href="geometric-and-poisson-distributions.html#cb21-2" aria-hidden="true" tabindex="-1"></a>lambda <span class="ot">&lt;-</span> <span class="fl">1.1</span></span>
+<span id="cb21-3"><a href="geometric-and-poisson-distributions.html#cb21-3" aria-hidden="true" tabindex="-1"></a><span class="fu">sum</span>( r<span class="sc">^</span><span class="dv">2</span><span class="sc">*</span><span class="fu">dpois</span>(r, lambda) ) <span class="sc">-</span> lambda<span class="sc">^</span><span class="dv">2</span></span></code></pre></div>
+<pre><code>## [1] 1.1</code></pre>
+<p><strong>I would forgive you if you are wondering if maybe we just made a mistake!</strong></p>
+<p>As before the trick to use is that <span class="math inline">\(E(Y^2) = E(Y(Y-1)) + E(Y)\)</span></p>
+<p><span class="math display">\[ E(Y(Y-1)) = \sum_{r=0}^\infty r (r-1) \frac{\lambda^r}{r!} e^{-\lambda} = e^{-\lambda} \sum_{r=2}^\infty \frac{\lambda}{(r-2)!}  \]</span></p>
+<p>and we find</p>
+<p><span class="math display">\[ = \lambda^2 e^{-\lambda} \sum_{s=0}^\infty \frac{\lambda^s}{s!} = \lambda^2 \]</span></p>
+<p>Putting it together we have:</p>
+<p><span class="math display">\[ V(Y) = \lambda^2 + \lambda - \lambda^2 = \lambda\]</span></p>
+<p>So in summary a Poisson random variable with parameter <span class="math inline">\(\lambda\)</span> has expected value and variance <span class="math inline">\(\lambda\)</span>.</p>
 
 </div>
 </div>

diff --git a/_book/what-is-statistics.html b/_book/what-is-statistics.html
@@ -247,7 +247,12 @@ code span.wa { color: #60a0b0; font-weight: bold; font-style: italic; } /* Warni
 <ul>
 <li class="chapter" data-level="4.1.1" data-path="geometric-and-poisson-distributions.html"><a href="geometric-and-poisson-distributions.html#expected-value-1"><i class="fa fa-check"></i><b>4.1.1</b> Expected Value</a></li>
 <li class="chapter" data-level="4.1.2" data-path="geometric-and-poisson-distributions.html"><a href="geometric-and-poisson-distributions.html#variance"><i class="fa fa-check"></i><b>4.1.2</b> Variance</a></li>
-<li class="chapter" data-level="4.1.3" data-path="geometric-and-poisson-distributions.html"><a href="geometric-and-poisson-distributions.html#poisson-distributions"><i class="fa fa-check"></i><b>4.1.3</b> Poisson Distributions</a></li>
+</ul></li>
+<li class="chapter" data-level="4.2" data-path="geometric-and-poisson-distributions.html"><a href="geometric-and-poisson-distributions.html#poisson-distributions"><i class="fa fa-check"></i><b>4.2</b> Poisson Distributions</a>
+<ul>
+<li class="chapter" data-level="4.2.1" data-path="geometric-and-poisson-distributions.html"><a href="geometric-and-poisson-distributions.html#what-have-we-learned"><i class="fa fa-check"></i><b>4.2.1</b> What have we learned?</a></li>
+<li class="chapter" data-level="4.2.2" data-path="geometric-and-poisson-distributions.html"><a href="geometric-and-poisson-distributions.html#expected-value-2"><i class="fa fa-check"></i><b>4.2.2</b> Expected Value</a></li>
+<li class="chapter" data-level="4.2.3" data-path="geometric-and-poisson-distributions.html"><a href="geometric-and-poisson-distributions.html#variance-of-the-poisson-random-variable"><i class="fa fa-check"></i><b>4.2.3</b> Variance of the Poisson Random Variable</a></li>
 </ul></li>
 </ul></li>
 <li class="appendix"><span><b>Appendix</b></span></li>
@@ -337,7 +342,7 @@ While I am collecting this data you can reflect on this funny musing. I grew up 
 <span id="cb2-5"><a href="what-is-statistics.html#cb2-5" aria-hidden="true" tabindex="-1"></a><span class="co"># students &lt;- c() </span></span>
 <span id="cb2-6"><a href="what-is-statistics.html#cb2-6" aria-hidden="true" tabindex="-1"></a></span>
 <span id="cb2-7"><a href="what-is-statistics.html#cb2-7" aria-hidden="true" tabindex="-1"></a>students</span></code></pre></div>
-<pre><code>##  [1] 21 30 27 28 22 22 26 21 25 24 25 23 20 28 26 25 28 26 32 22</code></pre>
+<pre><code>##  [1] 27 17 13 31 25 21 24 31 21 31 28 24 22 26 23 23 24 19 29 32</code></pre>
 <p><em>R Notes</em>: c() stands for column and is one of the most basic data structures in R. Most things we will build will either manipulate columns directly or will use structures built out of columns.</p>
 <p>Comments in commands start with <em>hash symbols</em>.</p>
 <p>Another syntax note: R uses both = and &lt;- for assignment though they have slightly different meanings. They both work as you would expect, however &lt;- has some nice positives in the detailed differences and it is worth getting into the habit of using it.</p>
@@ -347,11 +352,11 @@ While I am collecting this data you can reflect on this funny musing. I grew up 
 <p>To get started we can use <em>summary</em> to get an overview of what our list of student enrollments look like. Review the meaning of each of these.</p>
 <div class="sourceCode" id="cb4"><pre class="sourceCode r"><code class="sourceCode r"><span id="cb4-1"><a href="what-is-statistics.html#cb4-1" aria-hidden="true" tabindex="-1"></a><span class="fu">summary</span>(students)</span></code></pre></div>
 <pre><code>##    Min. 1st Qu.  Median    Mean 3rd Qu.    Max. 
-##   20.00   22.00   25.00   25.05   27.25   32.00</code></pre>
+##   13.00   21.75   24.00   24.55   28.25   32.00</code></pre>
 <p>Mean and Median are <em>measures of center</em>, while the quartiles are <em>measures of spread</em>. One measure of spread missing is the variance or its square root standard deviation:</p>
 <div class="sourceCode" id="cb6"><pre class="sourceCode r"><code class="sourceCode r"><span id="cb6-1"><a href="what-is-statistics.html#cb6-1" aria-hidden="true" tabindex="-1"></a><span class="fu">var</span>(students); <span class="fu">sqrt</span>(<span class="fu">var</span>(students))</span></code></pre></div>
-<pre><code>## [1] 10.36579</code></pre>
-<pre><code>## [1] 3.219595</code></pre>
+<pre><code>## [1] 25.20789</code></pre>
+<pre><code>## [1] 5.020746</code></pre>
 <p>The variance is computed by taking the sum of the square differences between the data and the mean and then dividing that by number of items minus one; we will explain why this is what we divide by later in class:
 <span class="math display">\[ S = \frac{1}{n-1} \sum_{j=1}^n (y_j - \bar{y} )^2 \]</span> where <span class="math inline">\(\bar{y}\)</span> is the mean of the sample made up of the <span class="math inline">\(\{ y_1, y_2, \dots, y_n \}\)</span>.</p>
 <p>In the code blocks below I will add some comments about what we are doing:</p>
@@ -361,20 +366,20 @@ While I am collecting this data you can reflect on this funny musing. I grew up 
 <span id="cb9-4"><a href="what-is-statistics.html#cb9-4" aria-hidden="true" tabindex="-1"></a></span>
 <span id="cb9-5"><a href="what-is-statistics.html#cb9-5" aria-hidden="true" tabindex="-1"></a><span class="co"># R can then do the arithmetic and when we combine a list of numbers with a single number and square it, it knows what we mean.</span></span>
 <span id="cb9-6"><a href="what-is-statistics.html#cb9-6" aria-hidden="true" tabindex="-1"></a>(students <span class="sc">-</span> ybar)<span class="sc">^</span><span class="dv">2</span></span></code></pre></div>
-<pre><code>##  [1] 16.4025 24.5025  3.8025  8.7025  9.3025  9.3025  0.9025 16.4025  0.0025
-## [10]  1.1025  0.0025  4.2025 25.5025  8.7025  0.9025  0.0025  8.7025  0.9025
-## [19] 48.3025  9.3025</code></pre>
+<pre><code>##  [1]   6.0025  57.0025 133.4025  41.6025   0.2025  12.6025   0.3025  41.6025
+##  [9]  12.6025  41.6025  11.9025   0.3025   6.5025   2.1025   2.4025   2.4025
+## [17]   0.3025  30.8025  19.8025  55.5025</code></pre>
 <div class="sourceCode" id="cb11"><pre class="sourceCode r"><code class="sourceCode r"><span id="cb11-1"><a href="what-is-statistics.html#cb11-1" aria-hidden="true" tabindex="-1"></a><span class="co"># Then as we said, we sum over all of these and then divide by the number of them</span></span>
 <span id="cb11-2"><a href="what-is-statistics.html#cb11-2" aria-hidden="true" tabindex="-1"></a><span class="co"># minus 1</span></span>
 <span id="cb11-3"><a href="what-is-statistics.html#cb11-3" aria-hidden="true" tabindex="-1"></a></span>
 <span id="cb11-4"><a href="what-is-statistics.html#cb11-4" aria-hidden="true" tabindex="-1"></a><span class="fu">sum</span>( (students <span class="sc">-</span> ybar)<span class="sc">^</span><span class="dv">2</span> ) <span class="sc">/</span> ( <span class="fu">length</span>(students) <span class="sc">-</span> <span class="dv">1</span> )</span></code></pre></div>
-<pre><code>## [1] 10.36579</code></pre>
+<pre><code>## [1] 25.20789</code></pre>
 <p>Note why we compute variance in this way. We are trying to understand how far the data moves from the mean <span class="math inline">\(\bar{y}\)</span>. However we can’t just sum over the differences as that will just add up to zero:</p>
 <div class="sourceCode" id="cb13"><pre class="sourceCode r"><code class="sourceCode r"><span id="cb13-1"><a href="what-is-statistics.html#cb13-1" aria-hidden="true" tabindex="-1"></a><span class="fu">sum</span>(students <span class="sc">-</span> ybar )</span></code></pre></div>
 <pre><code>## [1] -1.421085e-14</code></pre>
 <p>We have choices though, we could sum over the absolute value and indeed that does give us a notion of spread. Here for example is the corresponding average for absolute deviation:</p>
 <div class="sourceCode" id="cb15"><pre class="sourceCode r"><code class="sourceCode r"><span id="cb15-1"><a href="what-is-statistics.html#cb15-1" aria-hidden="true" tabindex="-1"></a><span class="fu">sum</span>( <span class="fu">abs</span>(students <span class="sc">-</span> ybar)) <span class="sc">/</span> (<span class="fu">length</span>(students) <span class="sc">-</span> <span class="dv">1</span> )</span></code></pre></div>
-<pre><code>## [1] 2.689474</code></pre>
+<pre><code>## [1] 4.110526</code></pre>
 <p>However the advantage of summing over the squares is that it brings in tools from Calculus that work with quadratic expressions but not with absolute value expressions. We then intend to take an average. For reasons we will justify later, it turns out the correct average to do is to divide by the size of our sample minus 1: <span class="math inline">\(n-1\)</span> is called the degrees of freedom (roughly computing <span class="math inline">\(\bar{y}\)</span> from the sample has used up one degree of freedom).</p>
 <p>Note the units on these two statistics: the variance is the average of the sum of the squares (by the number of degrees of freedom) so its units are the square of the units of our sample data (<em>students squared</em> in this case); and then the standard deviation is the square root of the variance and so has units of the original data (<em>students</em> in this case).</p>
 </div>

diff --git a/_book/class-schedule-and-activities.html b/_book/class-schedule-and-activities.html
@@ -183,7 +183,12 @@
 <ul>
 <li class="chapter" data-level="4.1.1" data-path="geometric-and-poisson-distributions.html"><a href="geometric-and-poisson-distributions.html#expected-value-1"><i class="fa fa-check"></i><b>4.1.1</b> Expected Value</a></li>
 <li class="chapter" data-level="4.1.2" data-path="geometric-and-poisson-distributions.html"><a href="geometric-and-poisson-distributions.html#variance"><i class="fa fa-check"></i><b>4.1.2</b> Variance</a></li>
-<li class="chapter" data-level="4.1.3" data-path="geometric-and-poisson-distributions.html"><a href="geometric-and-poisson-distributions.html#poisson-distributions"><i class="fa fa-check"></i><b>4.1.3</b> Poisson Distributions</a></li>
+</ul></li>
+<li class="chapter" data-level="4.2" data-path="geometric-and-poisson-distributions.html"><a href="geometric-and-poisson-distributions.html#poisson-distributions"><i class="fa fa-check"></i><b>4.2</b> Poisson Distributions</a>
+<ul>
+<li class="chapter" data-level="4.2.1" data-path="geometric-and-poisson-distributions.html"><a href="geometric-and-poisson-distributions.html#what-have-we-learned"><i class="fa fa-check"></i><b>4.2.1</b> What have we learned?</a></li>
+<li class="chapter" data-level="4.2.2" data-path="geometric-and-poisson-distributions.html"><a href="geometric-and-poisson-distributions.html#expected-value-2"><i class="fa fa-check"></i><b>4.2.2</b> Expected Value</a></li>
+<li class="chapter" data-level="4.2.3" data-path="geometric-and-poisson-distributions.html"><a href="geometric-and-poisson-distributions.html#variance-of-the-poisson-random-variable"><i class="fa fa-check"></i><b>4.2.3</b> Variance of the Poisson Random Variable</a></li>
 </ul></li>
 </ul></li>
 <li class="appendix"><span><b>Appendix</b></span></li>
@@ -216,7 +221,7 @@
 <img src="class_ideas/zoom_video.png" alt="Poll of Zoom Mirroring Preferences:  133 votes, 54.9% Mirrored; 45.1% Unmirrored" width="500"/> <br/>
 what can we conclude about the proportion of people that have a preference for mirrored videos in their Zoom casts?</p></li>
 </ol>
-<p><strong>Tuesday; June 15 -</strong> Geometric and Poisson Distributions. Traffic Cameras: How many pickup trucks versus cars? How many vehicles per minute?</p>
+<p><strong>Tuesday; June 15 -</strong> Geometric and Poisson Distributions. Traffic Cameras: How many pickup trucks versus cars? How many vehicles per minute? How many people are getting in line at the supermarket?</p>
 <ol style="list-style-type: decimal">
 <li><p>Find a traffic camera for a section of free way or an intersection. How many cars go through before the first pickup truck you see? What can we conclude about the proportion of pickup trucks?</p></li>
 <li><p>With your team, watch the video for one minute and count how many vehicles you see. Do this a couple of times. How unusual would it be to see twice as many vehicles or more in a minute? How unusual would it be to see half as many or fewer vehicles in a minute? How many vehicles would we expect to see in an hour? How likely would it be to see that many or fewer in that hour?</p></li>

diff --git a/_book/index.html b/_book/index.html
@@ -247,7 +247,12 @@ code span.wa { color: #60a0b0; font-weight: bold; font-style: italic; } /* Warni
 <ul>
 <li class="chapter" data-level="4.1.1" data-path="geometric-and-poisson-distributions.html"><a href="geometric-and-poisson-distributions.html#expected-value-1"><i class="fa fa-check"></i><b>4.1.1</b> Expected Value</a></li>
 <li class="chapter" data-level="4.1.2" data-path="geometric-and-poisson-distributions.html"><a href="geometric-and-poisson-distributions.html#variance"><i class="fa fa-check"></i><b>4.1.2</b> Variance</a></li>
-<li class="chapter" data-level="4.1.3" data-path="geometric-and-poisson-distributions.html"><a href="geometric-and-poisson-distributions.html#poisson-distributions"><i class="fa fa-check"></i><b>4.1.3</b> Poisson Distributions</a></li>
+</ul></li>
+<li class="chapter" data-level="4.2" data-path="geometric-and-poisson-distributions.html"><a href="geometric-and-poisson-distributions.html#poisson-distributions"><i class="fa fa-check"></i><b>4.2</b> Poisson Distributions</a>
+<ul>
+<li class="chapter" data-level="4.2.1" data-path="geometric-and-poisson-distributions.html"><a href="geometric-and-poisson-distributions.html#what-have-we-learned"><i class="fa fa-check"></i><b>4.2.1</b> What have we learned?</a></li>
+<li class="chapter" data-level="4.2.2" data-path="geometric-and-poisson-distributions.html"><a href="geometric-and-poisson-distributions.html#expected-value-2"><i class="fa fa-check"></i><b>4.2.2</b> Expected Value</a></li>
+<li class="chapter" data-level="4.2.3" data-path="geometric-and-poisson-distributions.html"><a href="geometric-and-poisson-distributions.html#variance-of-the-poisson-random-variable"><i class="fa fa-check"></i><b>4.2.3</b> Variance of the Poisson Random Variable</a></li>
 </ul></li>
 </ul></li>
 <li class="appendix"><span><b>Appendix</b></span></li>

diff --git a/_book/r-notes.html b/_book/r-notes.html
@@ -183,7 +183,12 @@
 <ul>
 <li class="chapter" data-level="4.1.1" data-path="geometric-and-poisson-distributions.html"><a href="geometric-and-poisson-distributions.html#expected-value-1"><i class="fa fa-check"></i><b>4.1.1</b> Expected Value</a></li>
 <li class="chapter" data-level="4.1.2" data-path="geometric-and-poisson-distributions.html"><a href="geometric-and-poisson-distributions.html#variance"><i class="fa fa-check"></i><b>4.1.2</b> Variance</a></li>
-<li class="chapter" data-level="4.1.3" data-path="geometric-and-poisson-distributions.html"><a href="geometric-and-poisson-distributions.html#poisson-distributions"><i class="fa fa-check"></i><b>4.1.3</b> Poisson Distributions</a></li>
+</ul></li>
+<li class="chapter" data-level="4.2" data-path="geometric-and-poisson-distributions.html"><a href="geometric-and-poisson-distributions.html#poisson-distributions"><i class="fa fa-check"></i><b>4.2</b> Poisson Distributions</a>
+<ul>
+<li class="chapter" data-level="4.2.1" data-path="geometric-and-poisson-distributions.html"><a href="geometric-and-poisson-distributions.html#what-have-we-learned"><i class="fa fa-check"></i><b>4.2.1</b> What have we learned?</a></li>
+<li class="chapter" data-level="4.2.2" data-path="geometric-and-poisson-distributions.html"><a href="geometric-and-poisson-distributions.html#expected-value-2"><i class="fa fa-check"></i><b>4.2.2</b> Expected Value</a></li>
+<li class="chapter" data-level="4.2.3" data-path="geometric-and-poisson-distributions.html"><a href="geometric-and-poisson-distributions.html#variance-of-the-poisson-random-variable"><i class="fa fa-check"></i><b>4.2.3</b> Variance of the Poisson Random Variable</a></li>
 </ul></li>
 </ul></li>
 <li class="appendix"><span><b>Appendix</b></span></li>
